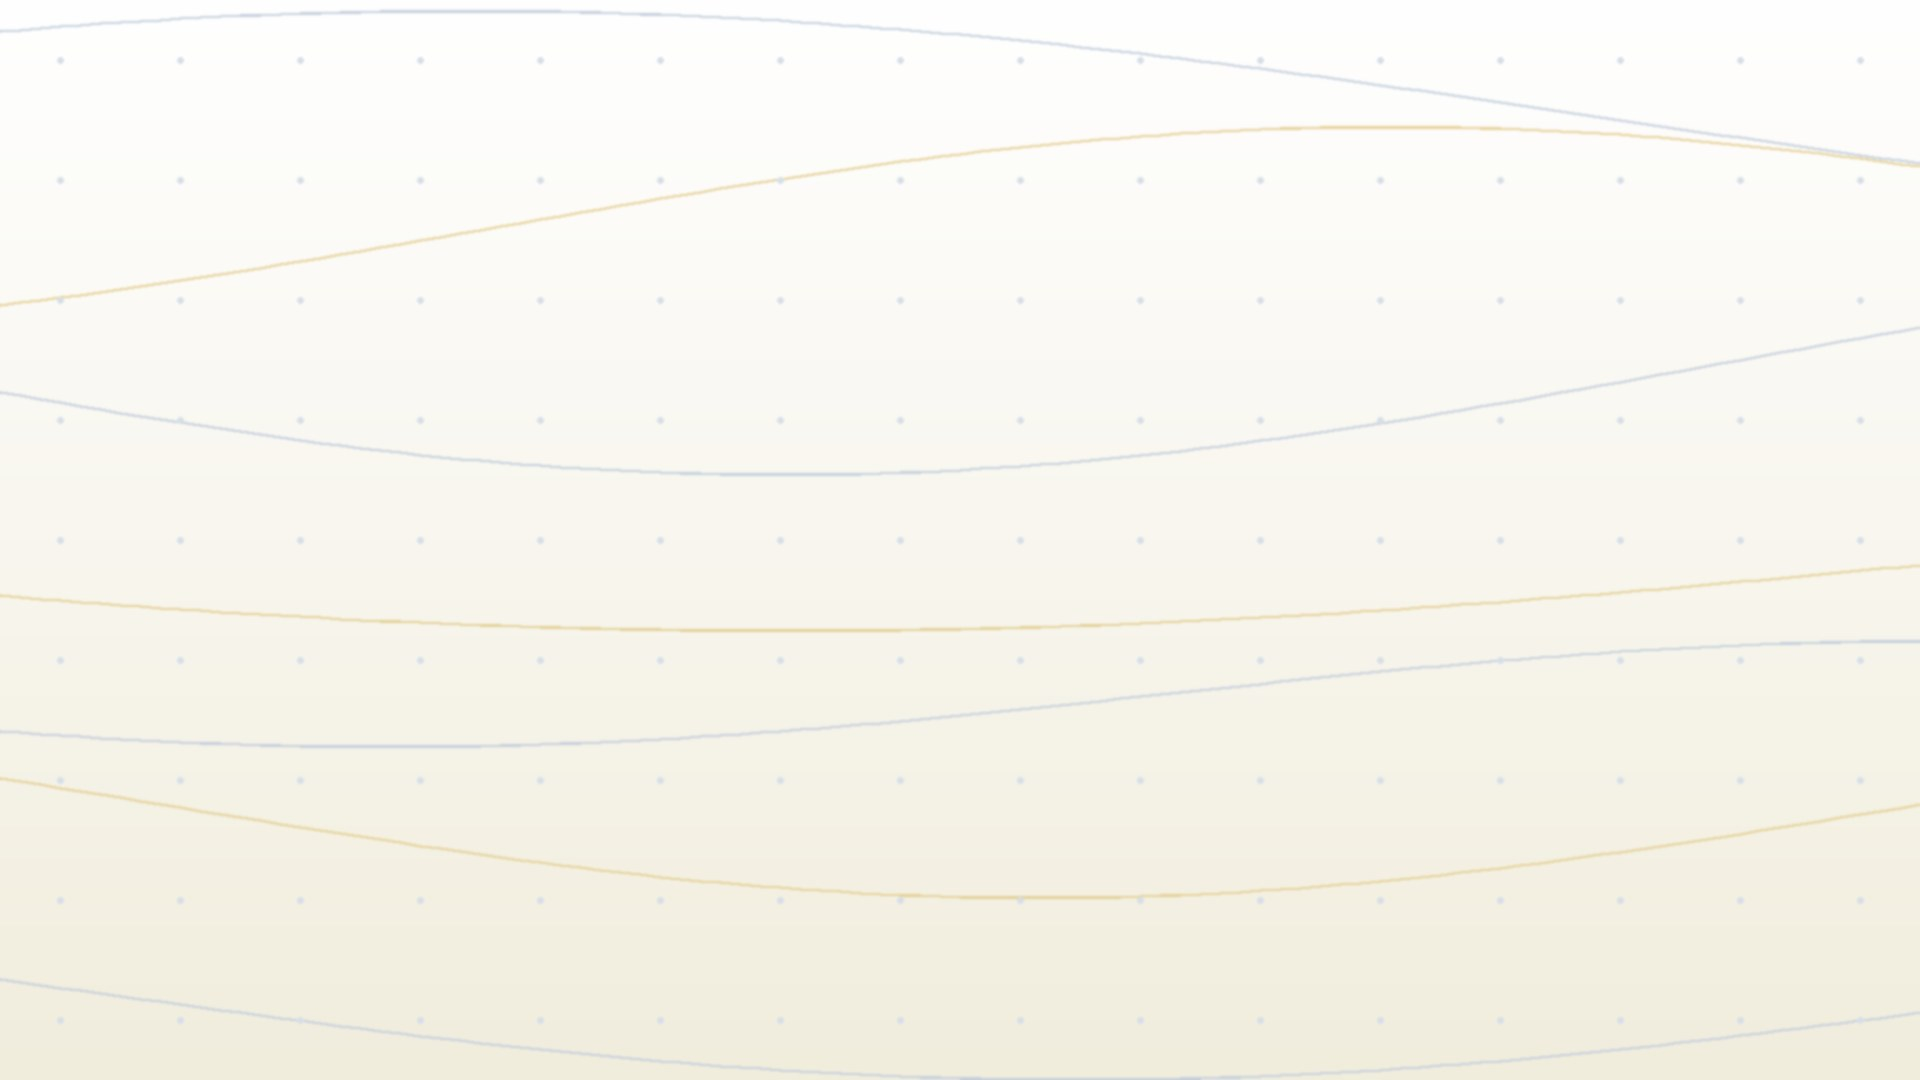
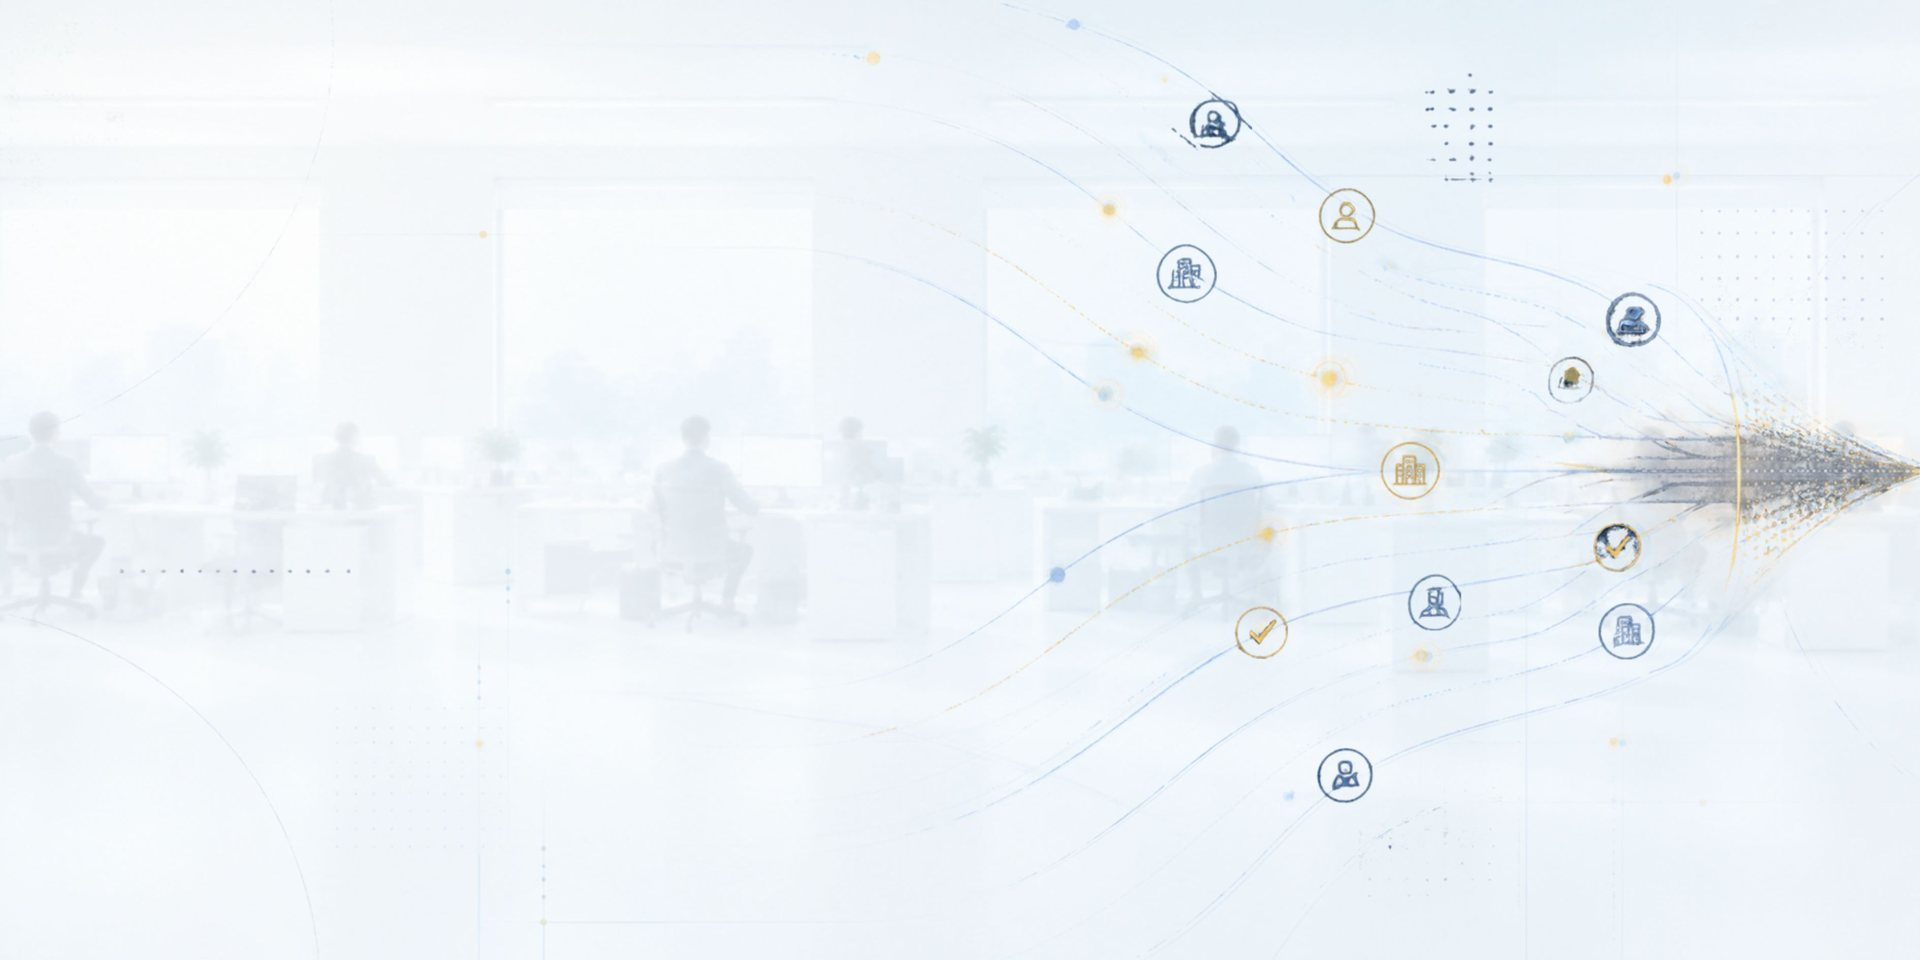
refresh

diff --git a/index.html b/index.html
@@ -42,35 +42,29 @@
   <section class="hero" id="home">
     <div class="container hero-inner">
       <div class="hero-copy reveal">
-        <p class="eyebrow">Our Current Focus</p>
-        <h1>Your business has been building an <span class="accent">asset it never knew it had.</span></h1>
-        <p class="lead">AI labs are paying established companies an indicative $100,000&ndash;$5,000,000 to license de-identified copies of their operational data &mdash; non-dilutive, no debt, and no cost to find out what yours is worth. It&rsquo;s the newest addition to the revenue opportunities My-O-Staff brings to business owners.</p>
+        <p class="eyebrow">B2B Sales &middot; Marketing &middot; Design &mdash; 100% Online</p>
+        <h1>Your remote sales &amp; marketing team &mdash; <span class="accent">anywhere in the world.</span></h1>
+        <p class="lead">My-O-Staff Pty Ltd works with businesses across Australia, the United States and beyond &mdash; entirely online &mdash; to sharpen sales messages, build high-converting websites, and turn old, dead leads into new sales with our A.I. Appointment Setter program.</p>
         <div class="hero-actions">
-          <a href="https://data.mode.inc/?ref=m7LZVr6qiXWpRaOs?utm_source=myostaff&amp;utm_medium=website" target="_blank" rel="noopener" class="btn btn-primary">Check Your Company&rsquo;s Eligibility &rarr;</a>
-          <a href="#lets-talk" class="btn btn-ghost">Book a 15-Minute Call</a>
+          <a href="#lets-talk" class="btn btn-primary">Book a Free 15-Minute Call</a>
+          <a href="#our-work" class="btn btn-ghost">See What We Do</a>
         </div>
+        <a href="#data-licensing" class="hero-notice">
+          <span class="hero-notice-tag">New Service</span>
+          <span class="hero-notice-text">Businesses &amp; non-profits: get paid for the data you already generate &mdash; see the highlight below</span>
+        </a>
       </div>
       <div class="hero-media reveal">
         <div class="value-card">
-          <span class="value-label">Indicative data-license value</span>
-          <span class="value-range">$100k&ndash;$5M</span>
-          <span class="value-note">for qualifying companies &mdash; paid to license de-identified operational data</span>
-          <ul class="value-chips">
-            <li>Non-dilutive</li>
-            <li>No debt</li>
-            <li>Free eligibility check</li>
+          <span class="value-label">What we do</span>
+          <ul class="hero-pillars">
+            <li>Lead generation &amp; A.I. appointment setting</li>
+            <li>Web design, funnels &amp; eCovers</li>
+            <li class="new">Data licensing for AI <em>new</em></li>
           </ul>
+          <a href="#data-licensing" class="hero-notice-link">See the data opportunity &darr;</a>
         </div>
       </div>
-    </div>
-    <div class="container also-strip reveal">
-      <span class="also-label">Also from My-O-Staff</span>
-      <a href="#svc-leadgen">Lead Generation &amp; A.I. Appointment Setting</a>
-      <a href="#svc-funding">US Funding Program Referrals</a>
-      <a href="#svc-web">Web Design &amp; Funnels</a>
-      <a href="#svc-ecovers">eCovers &amp; 3D Mockups</a>
-      <a href="#svc-wellness">Health &amp; Wellness Program</a>
-      <a href="#svc-environment">Environmental Consultancy</a>
     </div>
     <div class="hero-wave" aria-hidden="true">
       <svg viewBox="0 0 1440 80" preserveAspectRatio="none"><path d="M0,40 C360,90 1080,-10 1440,40 L1440,80 L0,80 Z" fill="#f6f8fb"/></svg>
@@ -113,10 +107,12 @@
 
   <!-- ===== Testimonial strip ===== -->
   <section class="testimonial-strip">
-    <div class="container reveal">
+    <div class="container reveal strip-row">
       <img src="img/tutor-gmb.jpg" alt="Five-star client review" class="strip-img">
-      <p class="strip-quote">&ldquo;Very dependable, responsive and does things with real professionalism too. Whatever I&rsquo;ve ask for the response has been quick, and above board. Thanks!&rdquo;</p>
-      <p class="strip-attribution">&mdash; Wilbur Ramey, five-star review</p>
+      <div class="strip-text">
+        <p class="strip-quote">&ldquo;Very dependable, responsive and does things with real professionalism too. Whatever I&rsquo;ve ask for the response has been quick, and above board. Thanks!&rdquo;</p>
+        <p class="strip-attribution">&mdash; Wilbur Ramey, five-star review</p>
+      </div>
     </div>
   </section>
 
@@ -388,7 +384,7 @@
       <div class="split-copy reveal">
         <p class="eyebrow">About Us</p>
         <h2>Meet My-O-Staff</h2>
-        <p>My-O-Staff Pty Ltd is led by Bernie Pereira — a sales and marketing specialist with a proven track record in new business development across Australia and the United States. From referring businesses to US funding programs, to building funnels and designing best-selling eCovers, to helping clients revive dead leads with A.I., everything we do is built on one idea: work remotely, deliver results.</p>
+        <p>My-O-Staff Pty Ltd is led by Berny Pereira — a sales and marketing specialist with a proven track record in new business development across Australia and the United States. From referring businesses to US funding programs, to building funnels and designing best-selling eCovers, to helping clients revive dead leads with A.I., everything we do is built on one idea: work remotely, deliver results.</p>
         <p>Connect with Berny on LinkedIn, or watch the video to hear more about how we work with clients around the world.</p>
         <a href="https://www.linkedin.com/in/bernyp/" target="_blank" rel="noopener" class="btn btn-primary">
           <svg class="btn-icon" viewBox="0 0 24 24" fill="currentColor"><path d="M4.98 3.5A2.5 2.5 0 1 1 5 8.5a2.5 2.5 0 0 1 0-5zM3 9h4v12H3zM9 9h3.8v1.7h.1c.5-1 1.8-2 3.7-2 4 0 4.7 2.6 4.7 6V21h-4v-5.5c0-1.3 0-3-1.9-3s-2.2 1.4-2.2 2.9V21H9z"/></svg>

diff --git a/css/styles.css b/css/styles.css
@@ -115,10 +115,40 @@ img, iframe { max-width: 100%; }
 
 /* Testimonial strip (after highlight section) */
 .testimonial-strip { padding: 3.5rem 0; background: var(--white); }
-.testimonial-strip .container { display: flex; flex-direction: column; align-items: center; text-align: center; gap: 0.9rem; }
-.strip-img { width: 110px; border-radius: 12px; box-shadow: var(--shadow-lg); }
-.strip-quote { max-width: 44rem; font-size: 1.08rem; color: var(--ink); font-weight: 500; }
-.strip-attribution { font-size: 0.88rem; color: var(--muted); }
+.testimonial-strip .strip-row { display: flex; align-items: center; gap: 2rem; }
+.strip-img { width: 190px; flex-shrink: 0; border-radius: 14px; box-shadow: var(--shadow-lg); }
+.strip-text { text-align: left; }
+.strip-quote { font-size: 1.12rem; color: var(--ink); font-weight: 500; }
+.strip-attribution { font-size: 0.9rem; color: var(--muted); margin-top: 0.5rem; }
+
+/* Hero notice (pointer to new service) */
+.hero-notice {
+  display: inline-flex; align-items: center; gap: 0.8rem;
+  margin-top: 1.8rem; padding: 0.6rem 1.1rem;
+  background: var(--white); border: 1.5px solid var(--gold);
+  border-radius: 999px; box-shadow: var(--shadow);
+  text-decoration: none !important;
+  transition: transform 0.2s ease, box-shadow 0.2s ease;
+  max-width: 100%;
+}
+.hero-notice:hover { transform: translateY(-2px); box-shadow: var(--shadow-lg); }
+.hero-notice-tag {
+  background: var(--gold); color: var(--navy-dark);
+  font-size: 0.72rem; font-weight: 700; letter-spacing: 0.08em; text-transform: uppercase;
+  padding: 0.25rem 0.7rem; border-radius: 999px; flex-shrink: 0;
+}
+.hero-notice-text { font-size: 0.92rem; font-weight: 500; color: var(--navy); }
+.hero-pillars { list-style: none; display: flex; flex-direction: column; gap: 0.55rem; margin: 0.4rem 0 1rem; }
+.hero-pillars li { padding-left: 1.4rem; position: relative; color: var(--ink); font-size: 0.98rem; font-weight: 500; }
+.hero-pillars li::before { content: ''; position: absolute; left: 0; top: 0.55em; width: 8px; height: 8px; border-radius: 50%; background: var(--gold); }
+.hero-pillars li.new { color: var(--navy); }
+.hero-pillars li.new em { font-style: normal; font-size: 0.68rem; font-weight: 700; text-transform: uppercase; letter-spacing: 0.06em; background: var(--gold); color: var(--navy-dark); padding: 0.12rem 0.5rem; border-radius: 999px; margin-left: 0.4rem; vertical-align: middle; }
+.hero-notice-link { font-size: 0.9rem; font-weight: 600; }
+
+@media (max-width: 700px) {
+  .testimonial-strip .strip-row { flex-direction: column; text-align: center; }
+  .strip-text { text-align: center; }
+}
 .hero-inner { display: grid; grid-template-columns: 1.15fr 0.85fr; gap: 3.5rem; align-items: center; }
 .hero .lead { font-size: 1.1rem; color: var(--muted); margin: 1.2rem 0 2rem; max-width: 34rem; }
 .hero-actions { display: flex; gap: 1rem; flex-wrap: wrap; }
